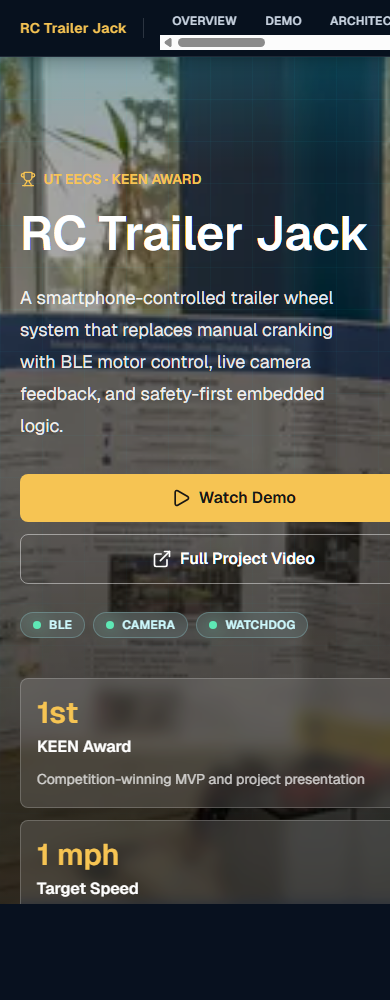
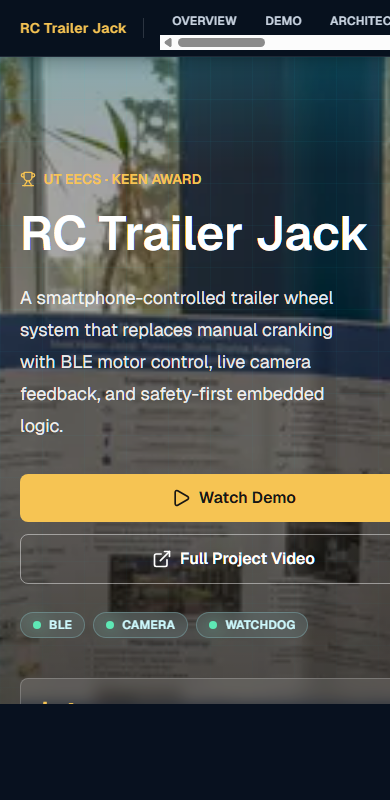
Add no-scrollbar class to hide scrollbars and improve UI

diff --git a/src/app/page.tsx b/src/app/page.tsx
@@ -405,7 +405,7 @@ export default function Home() {
             RC Trailer Jack
           </a>
           <div className="h-5 w-px shrink-0 bg-white/15" />
-          <div className="flex flex-1 items-center gap-1 overflow-x-auto">
+          <div className="no-scrollbar flex flex-1 items-center gap-1 overflow-x-auto">
             {navLinks.map((link) => (
               <a
                 key={link.href}

diff --git a/src/app/globals.css b/src/app/globals.css
@@ -117,6 +117,14 @@ iframe {
   animation: float-soft 6s ease-in-out infinite;
 }
 
+.no-scrollbar {
+  scrollbar-width: none;
+}
+
+.no-scrollbar::-webkit-scrollbar {
+  display: none;
+}
+
 .dash-flow {
   stroke-dasharray: 8 10;
   animation: dash-flow 1.9s linear infinite;
